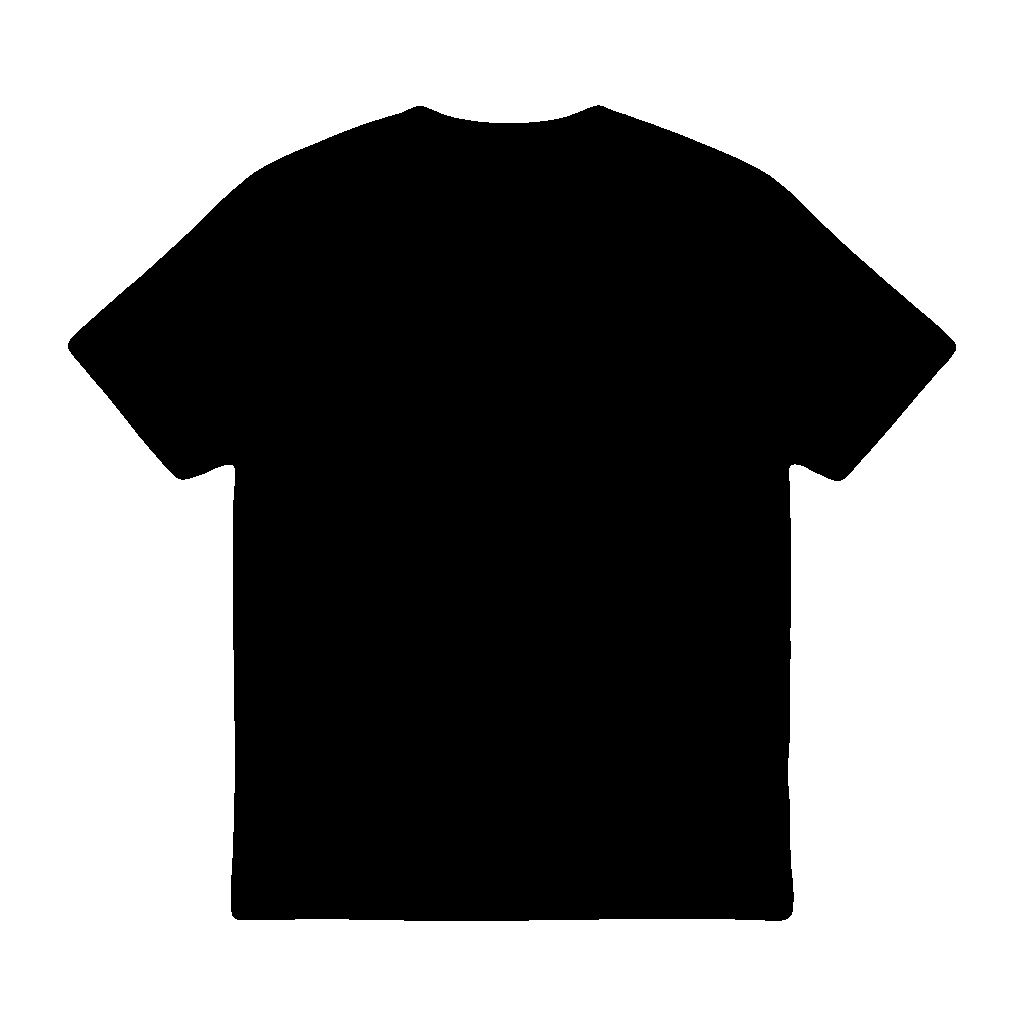
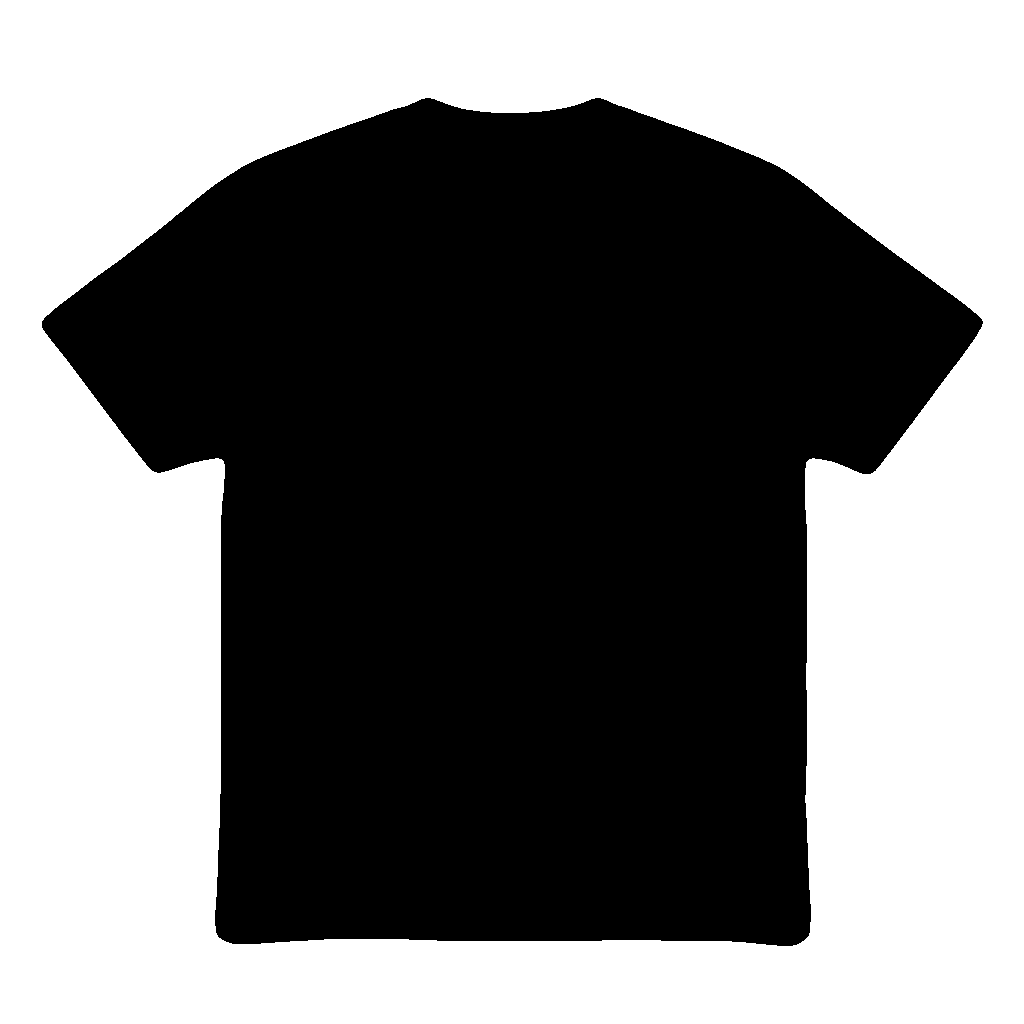
fix: Remove AI generated 'ASCENT' text from the white tag in the front view image

diff --git a/app_v2.js b/app_v2.js
@@ -711,7 +711,7 @@ document.addEventListener('DOMContentLoaded', () => {
                 container.querySelector('.base-shirt').src = `assets/${v.base}${suffix}.png`;
                 const maskedArea = container.querySelector('.masked-area');
                 if(maskedArea) {
-                    const maskUrl = `url('assets/${v.mask}${suffix}.png?v=20')`;
+                    const maskUrl = `url('assets/${v.mask}${suffix}.png?v=21')`;
                     maskedArea.style.maskImage = maskUrl;
                     maskedArea.style.webkitMaskImage = maskUrl;
                 }

diff --git a/process_front_blank.py b/process_front_blank.py
@@ -1,0 +1,29 @@
+import cv2
+import numpy as np
+import glob
+import shutil
+import rembg
+from PIL import Image
+import io
+
+brain_dir = '/Users/fds_2023_1/.gemini/antigravity/brain/a9dcbb1c-9e36-4eb9-ab73-db2c5b8d2201/'
+
+def extract_with_rembg(img_path, out_path):
+    with open(img_path, 'rb') as f:
+        input_data = f.read()
+    output_data = rembg.remove(input_data)
+    img = Image.open(io.BytesIO(output_data))
+    img_cv = np.array(img)
+    if img_cv.shape[2] == 4:
+        alpha = img_cv[:,:,3]
+        alpha = cv2.GaussianBlur(alpha, (15,15), 0)
+        _, alpha = cv2.threshold(alpha, 127, 255, cv2.THRESH_BINARY)
+        out = np.zeros_like(img_cv)
+        out[:,:,3] = alpha
+        cv2.imwrite(out_path, out)
+        print(f"rembg created mask {out_path}")
+
+fronts = glob.glob(brain_dir + 'front_black_blank_white_tag_*.png')
+if fronts:
+    shutil.copy(fronts[-1], 'assets/front_black.png')
+    extract_with_rembg('assets/front_black.png', 'assets/mask_front_black.png')
